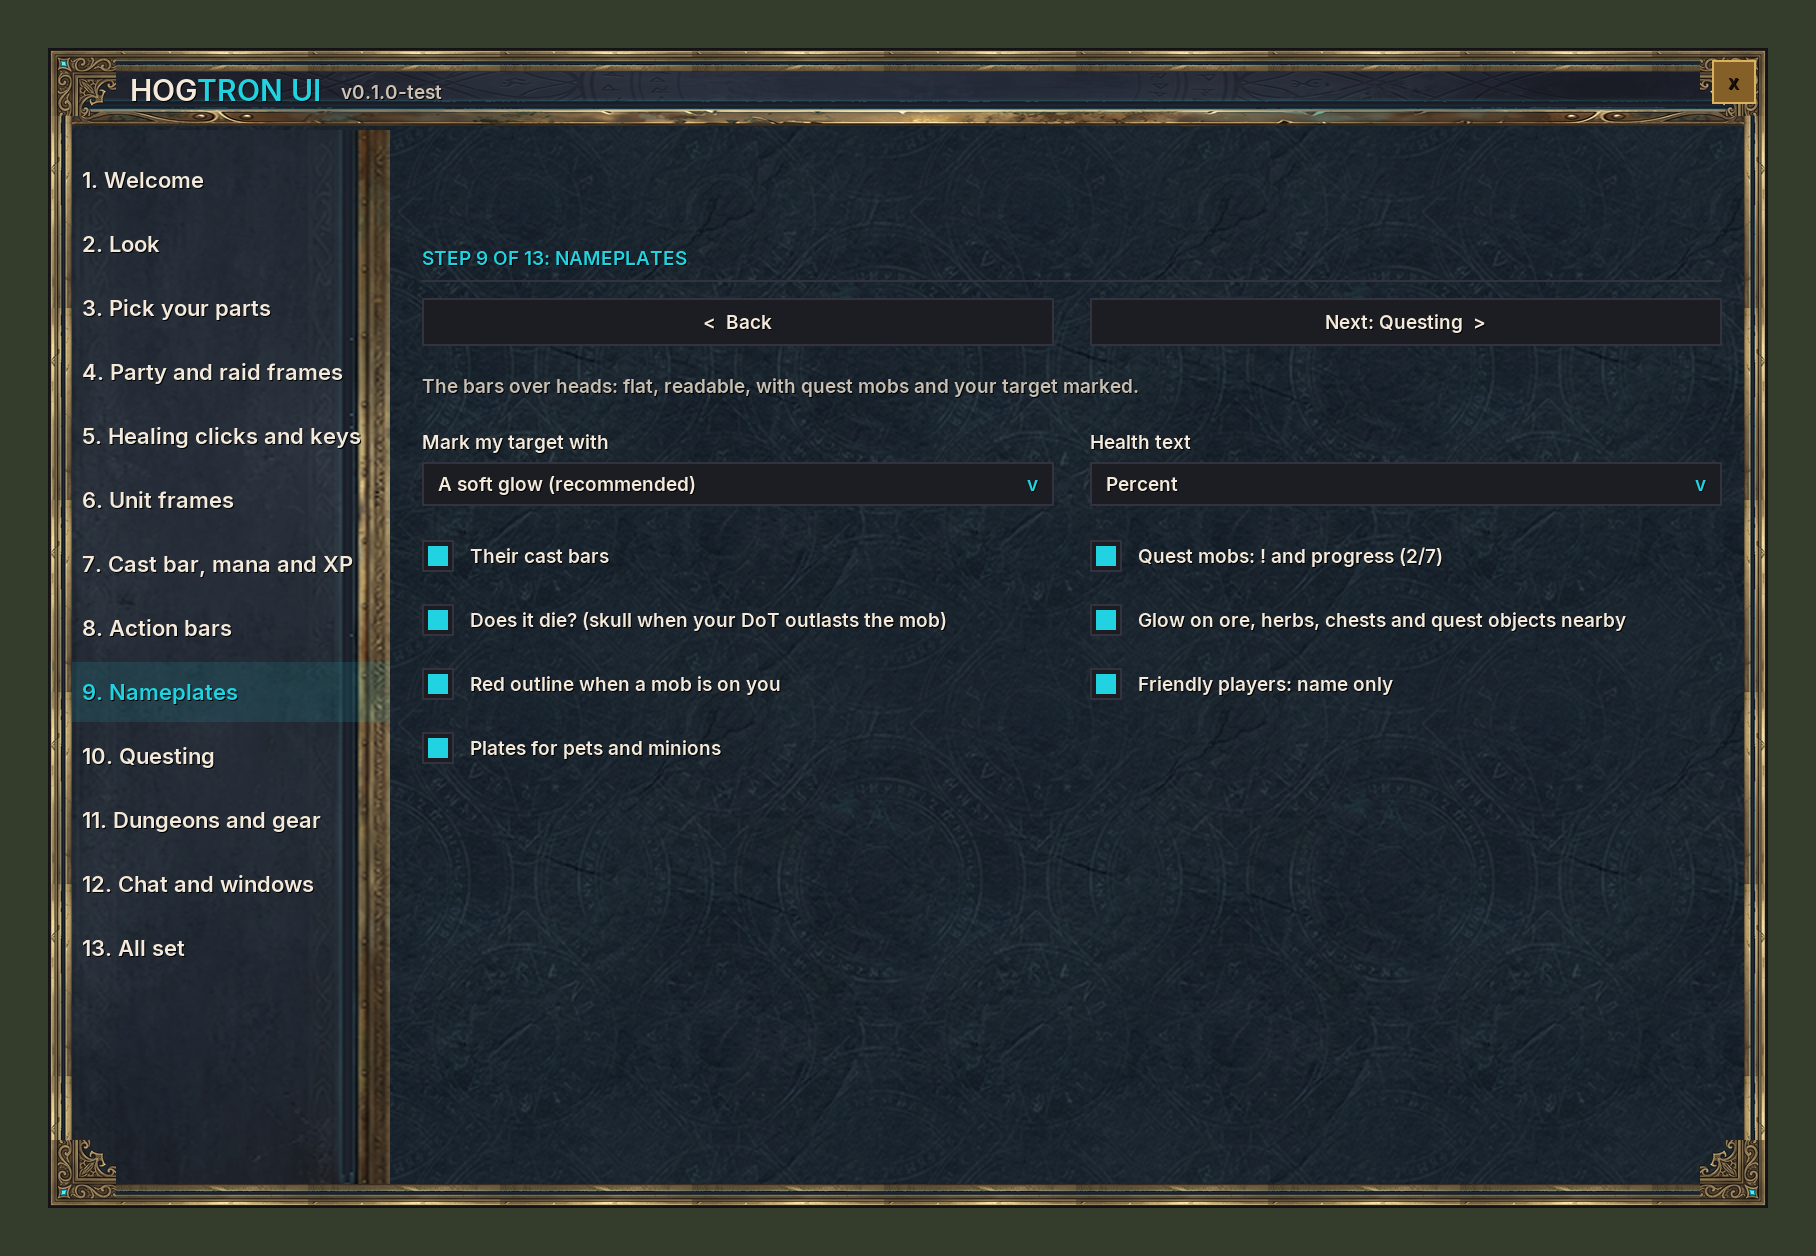
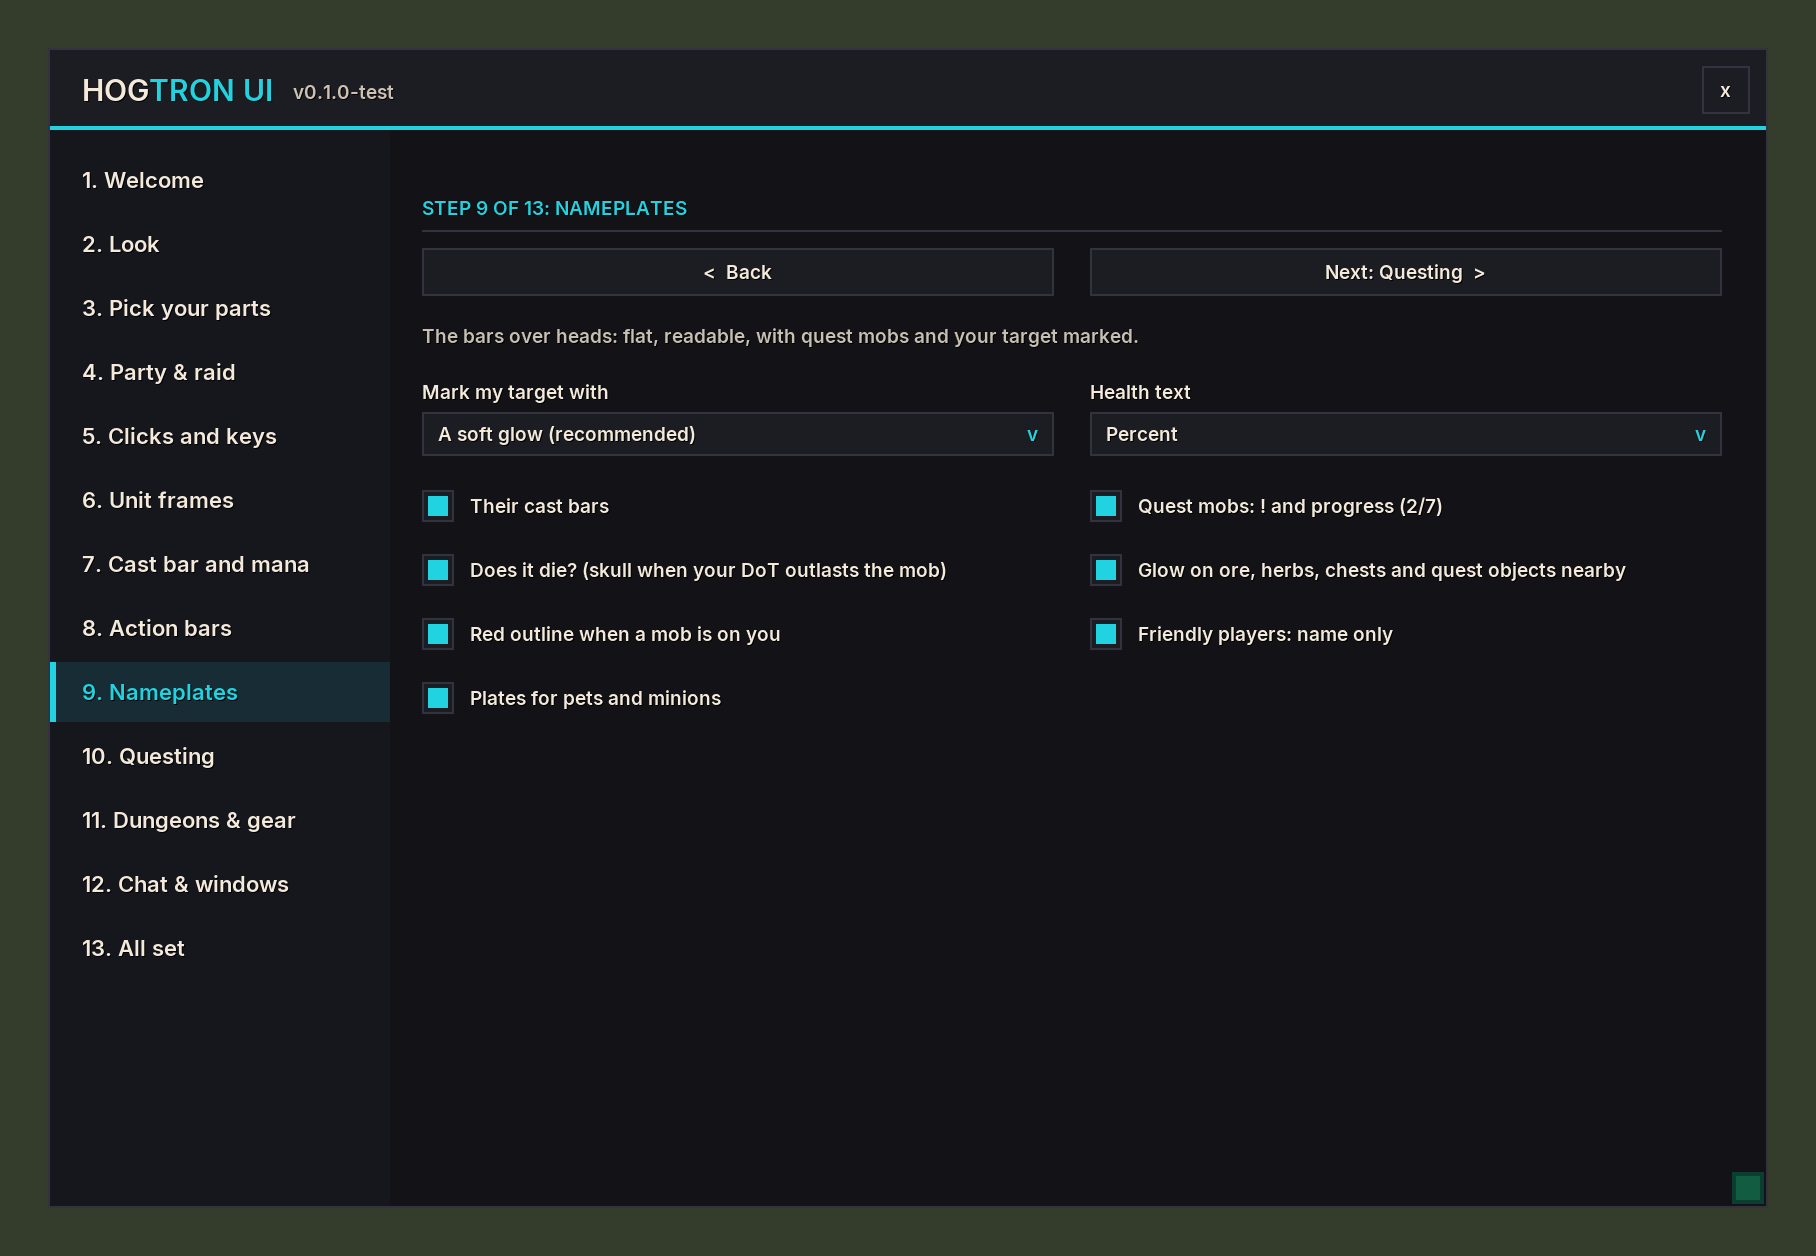
fix(menu): flat look is the default again; setup guide "Walk me through it" works; names fit; no empty tab row
Sean 2026-10-16, in game (painted setup guide): "This looks terrible on the top right and the spacing and the columns
... let's go back to a flat look", and "Walk me through it also doesn't do anything".
- look.menus default "flat" (painted stays one switch away in /hh look and the guide's Look page). The info bar's
  brass plaque follows the same switch, so it is flat too. Profiles that never chose keep up with the default.
- Walk me through it went to step 1 - the welcome page itself; now step 2 (Look). My tests only ever pressed Quick start.
- Step names shortened to fit the 170 px sidebar ("Clicks and keys", "Party & raid", "Cast bar and mana", ...).
- A page without tabs no longer keeps an empty tab row above its content.
Tests: 3 new (walk goes to Look, names fit, no tab row) + the painted-default tests now ask for painted. 1142 passed, lint 0.

diff --git a/tests/test_setup.py b/tests/test_setup.py
@@ -181,3 +181,19 @@ def test_old_frames_wizard_finish_still_works(full):
     full.execute('local W = HogHealsFrames.Wizard; local w = W.New("PRIEST"); w.answers = { preset = "compact", bindings = "none", gear = "melee" }; W.Finish(w)')
     assert full.eval('HogHeals.db.profile.frames.layouts.party.width') < full.eval('HogHeals.defaults.profile.frames.layouts.party.width')
     assert full.eval('HogHeals.db.char.atlas.role') == "melee" and full.eval('HogHeals.db.profile.wizardDone') is True
+
+
+def test_walk_me_through_it_goes_to_the_first_real_page(full):
+    # Sean 2026-10-16 in game: "Walk me through it also doesn't do anything" - it went to step 1, the welcome page itself
+    full.execute(f'{S}.Open(); {S}.Table().args.welcome.args.walk.func()')
+    assert full.eval('HogHeals.Panel.selected') == "look"
+
+
+def test_step_names_fit_the_sidebar(full):
+    for s in lst(full.eval(f'{S}.Visible()')):
+        assert len(s["title"]) <= 18, s["title"]                  # "13. " + title must fit the 170 px sidebar
+
+
+def test_a_page_without_tabs_has_no_empty_tab_row(full):
+    full.execute(f'{S}.Open(); {S}.Go(2)')
+    assert full.eval('#HogHeals.Panel.tabs') == 0 and full.eval('HogHealsPanel.tabbar:GetHeight()') <= 1

diff --git a/tests/test_panel.py b/tests/test_panel.py
@@ -245,12 +245,15 @@ def test_compact_footer_carries_the_modules_actions(panel):
     assert panel.eval(f"{P}.frame.footer:IsShown()") is False
 
 
-def test_painted_menus_by_default_flat_on_request(lua):
-    # Sean 2026-10-14 night: "redo our own menus and make them really nice" - the OpenArt slate / brass skin
+def test_flat_menus_by_default_painted_on_request(lua):
+    # 2026-10-14 night: the OpenArt slate / brass skin was the default; Sean 2026-10-16 in game: "this looks terrible
+    # ... let's go back to a flat look" -> flat is the default, painted stays one switch away (/hh look, setup guide)
     import pathlib
     lua.load_addon("HogTronUI")
     lua.player_login()
     lua.execute("HogHeals.Panel.Open()")
+    assert lua.eval("HogHeals.Panel.artOn") is False and lua.eval("HogHeals.defaults.profile.look.menus") == "flat"
+    lua.execute('HogHeals.db.profile.look.menus = "art"; HogHeals.Panel.ApplyArt()')
     f = "HogHealsPanel"
     media = pathlib.Path(__file__).resolve().parents[1] / "HogTronUI" / "Media"
     for n in ("menu_bg", "menu_corner", "menu_edge_h", "menu_edge_v", "menu_header", "menu_side"):

diff --git a/tests/test_skin.py b/tests/test_skin.py
@@ -1011,6 +1011,8 @@ def test_info_bar_on_the_brass_plaque_and_flat_on_request(skin):
     import pathlib
     assert (pathlib.Path(__file__).resolve().parents[1] / "HogTronUI" / "Media" / "info_plate.tga").exists()
     skin.execute("HogHealsSkin.InfoBar.Refresh()")
+    assert skin.eval("HogHealsSkin.InfoBar.plateOn") is False                  # flat by default since 2026-10-16
+    skin.execute('HogHeals.db.profile.look.menus = "art"; HogHealsSkin.InfoBar.Refresh()')
     assert skin.eval("HogHealsSkin.InfoBar.plateOn") is True
     assert skin.eval("HogUIInfoBar.plate[2]:IsShown()") is True and skin.eval("HogUIInfoBar.bg:IsShown()") is False
     assert list(skin.eval("HogUIInfoBar.plate[1]._texCoord").values()) == [0, 0.06, 0, 1]   # the cap keeps its shape

diff --git a/tests/test_menu_borders.py b/tests/test_menu_borders.py
@@ -55,7 +55,7 @@ def test_version_label_is_readable(core):
 
 def test_close_button_is_brass_in_the_corner_when_painted(core):
     # Sean 2026-10-15: "I don't like where this X is placed ... all the way in the corner or matching with the gold"
-    core.execute('HogHeals.Panel.Open()')
+    core.execute('HogHeals.db.profile.look.menus = "art"; HogHeals.Panel.Open()')
     assert core.eval('HogHeals.Panel.artOn') is True
     c = 'HogHealsPanel.close'
     p = core.eval(f'{{ {c}:GetPoint(1) }}')
